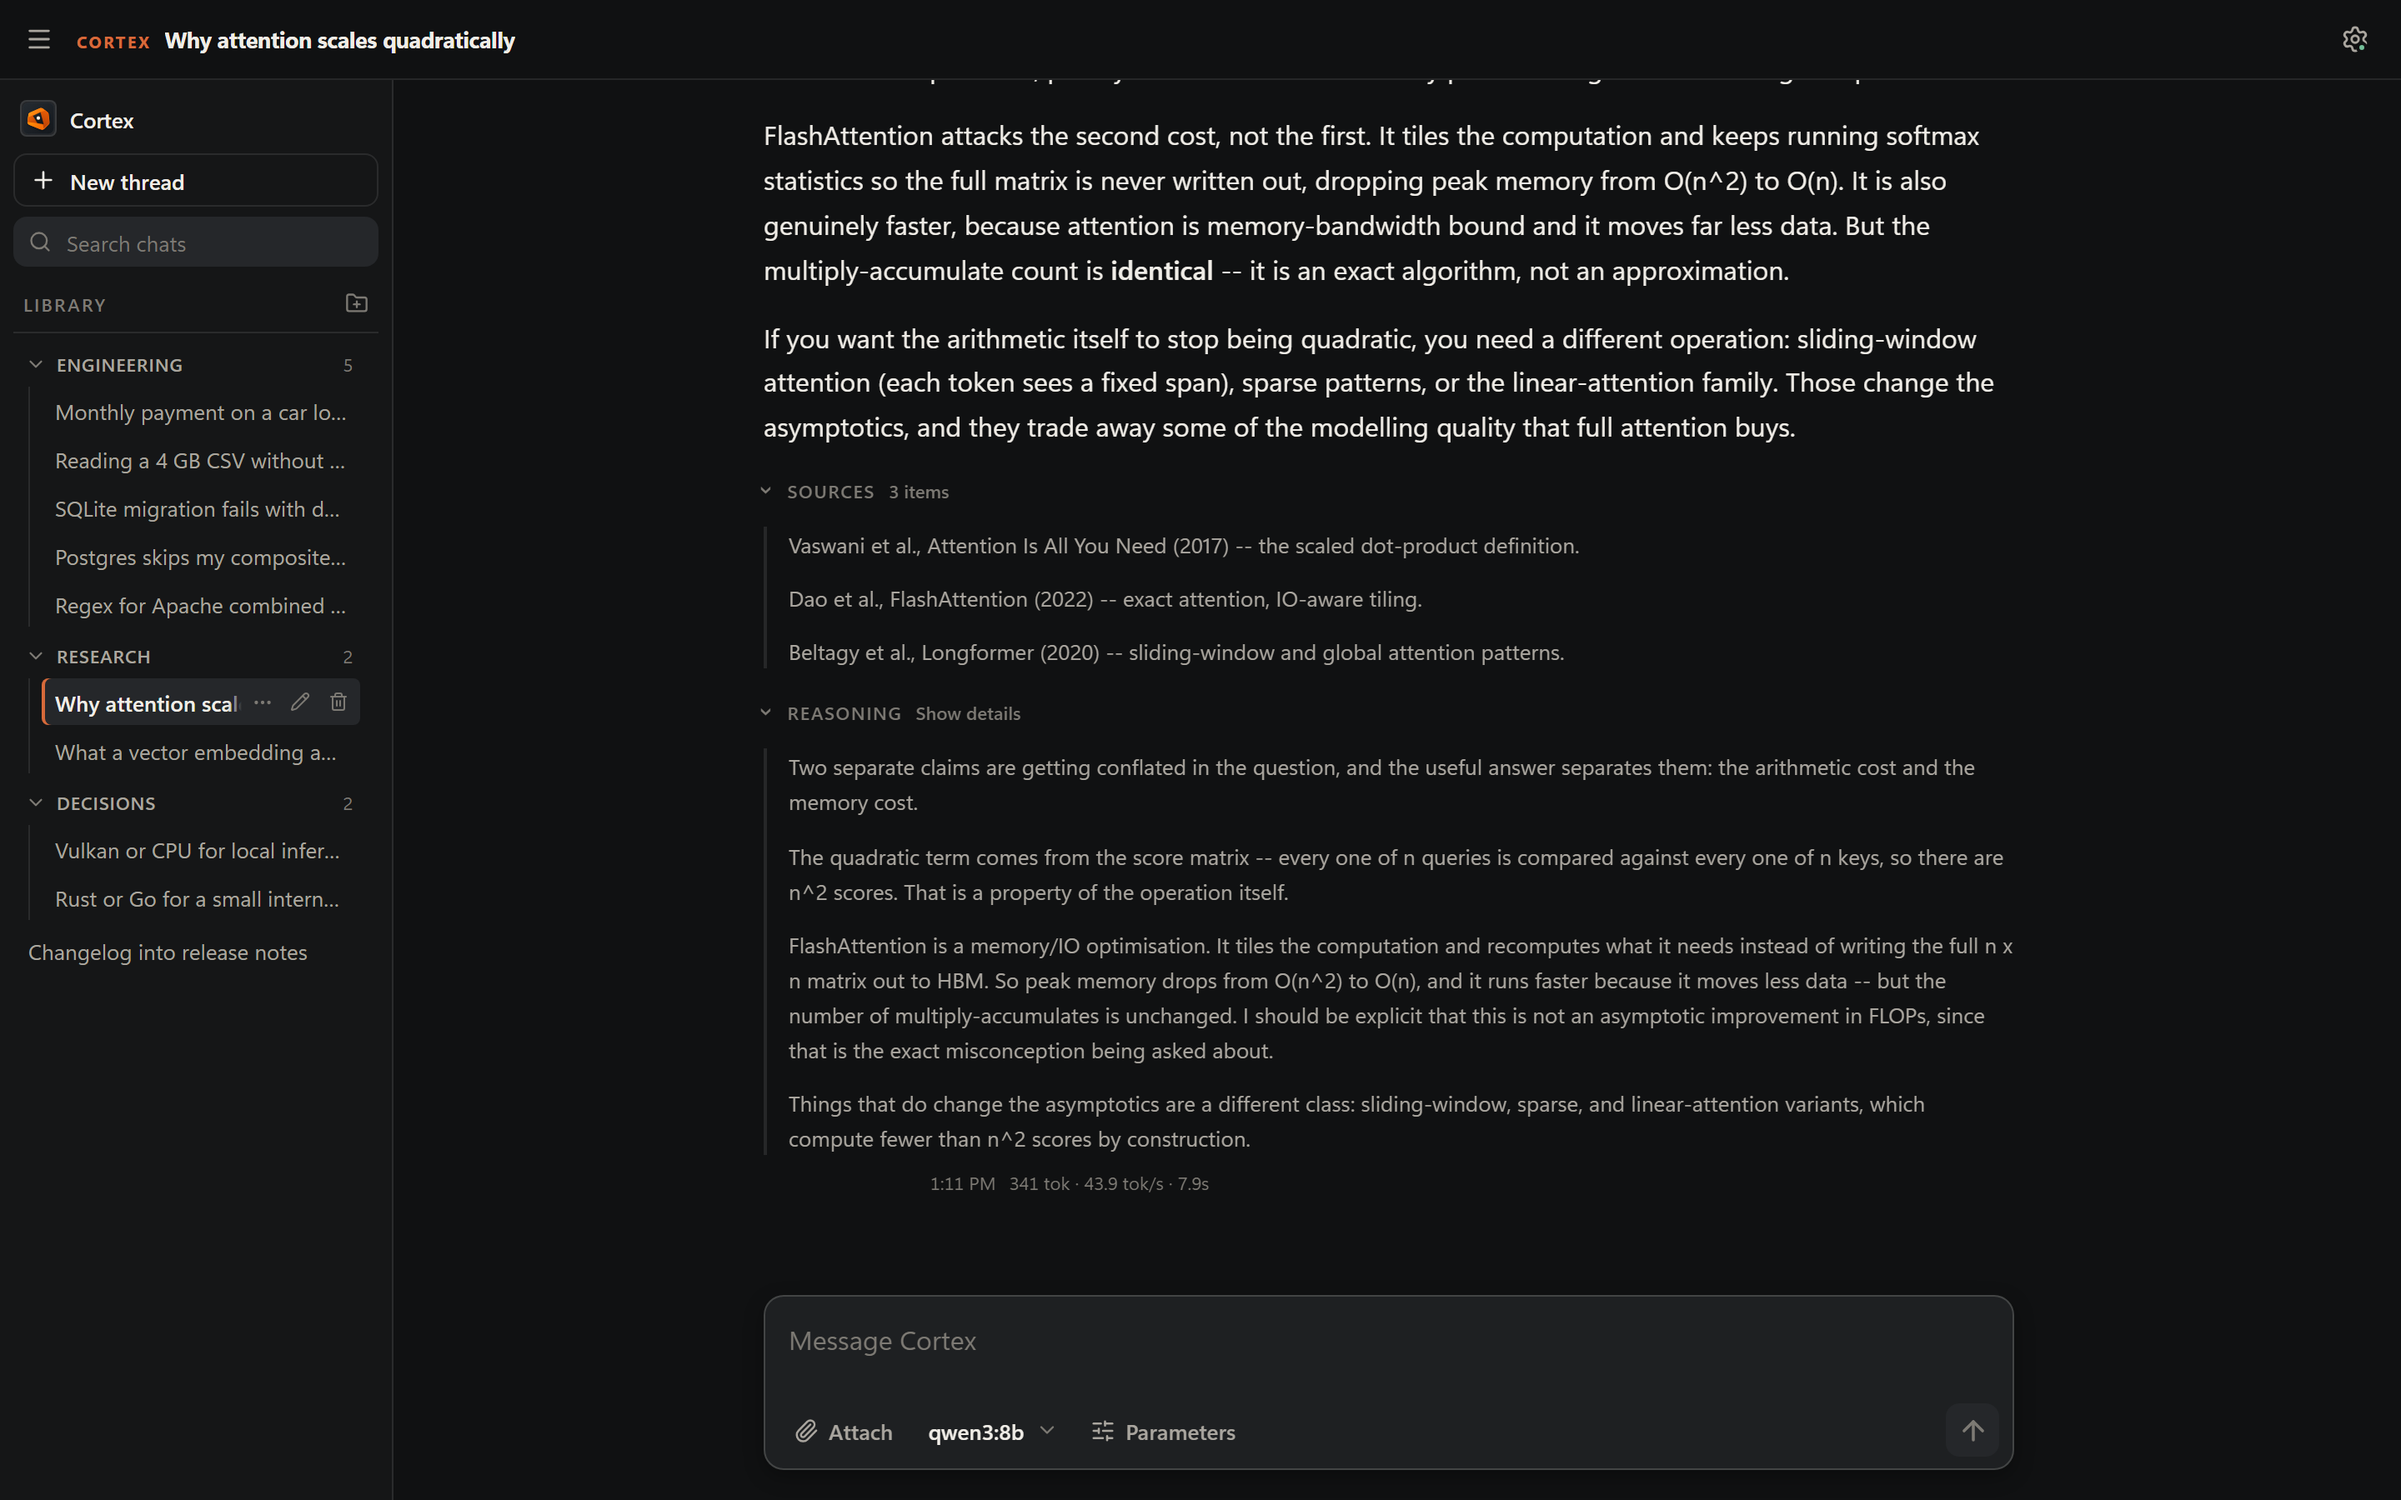
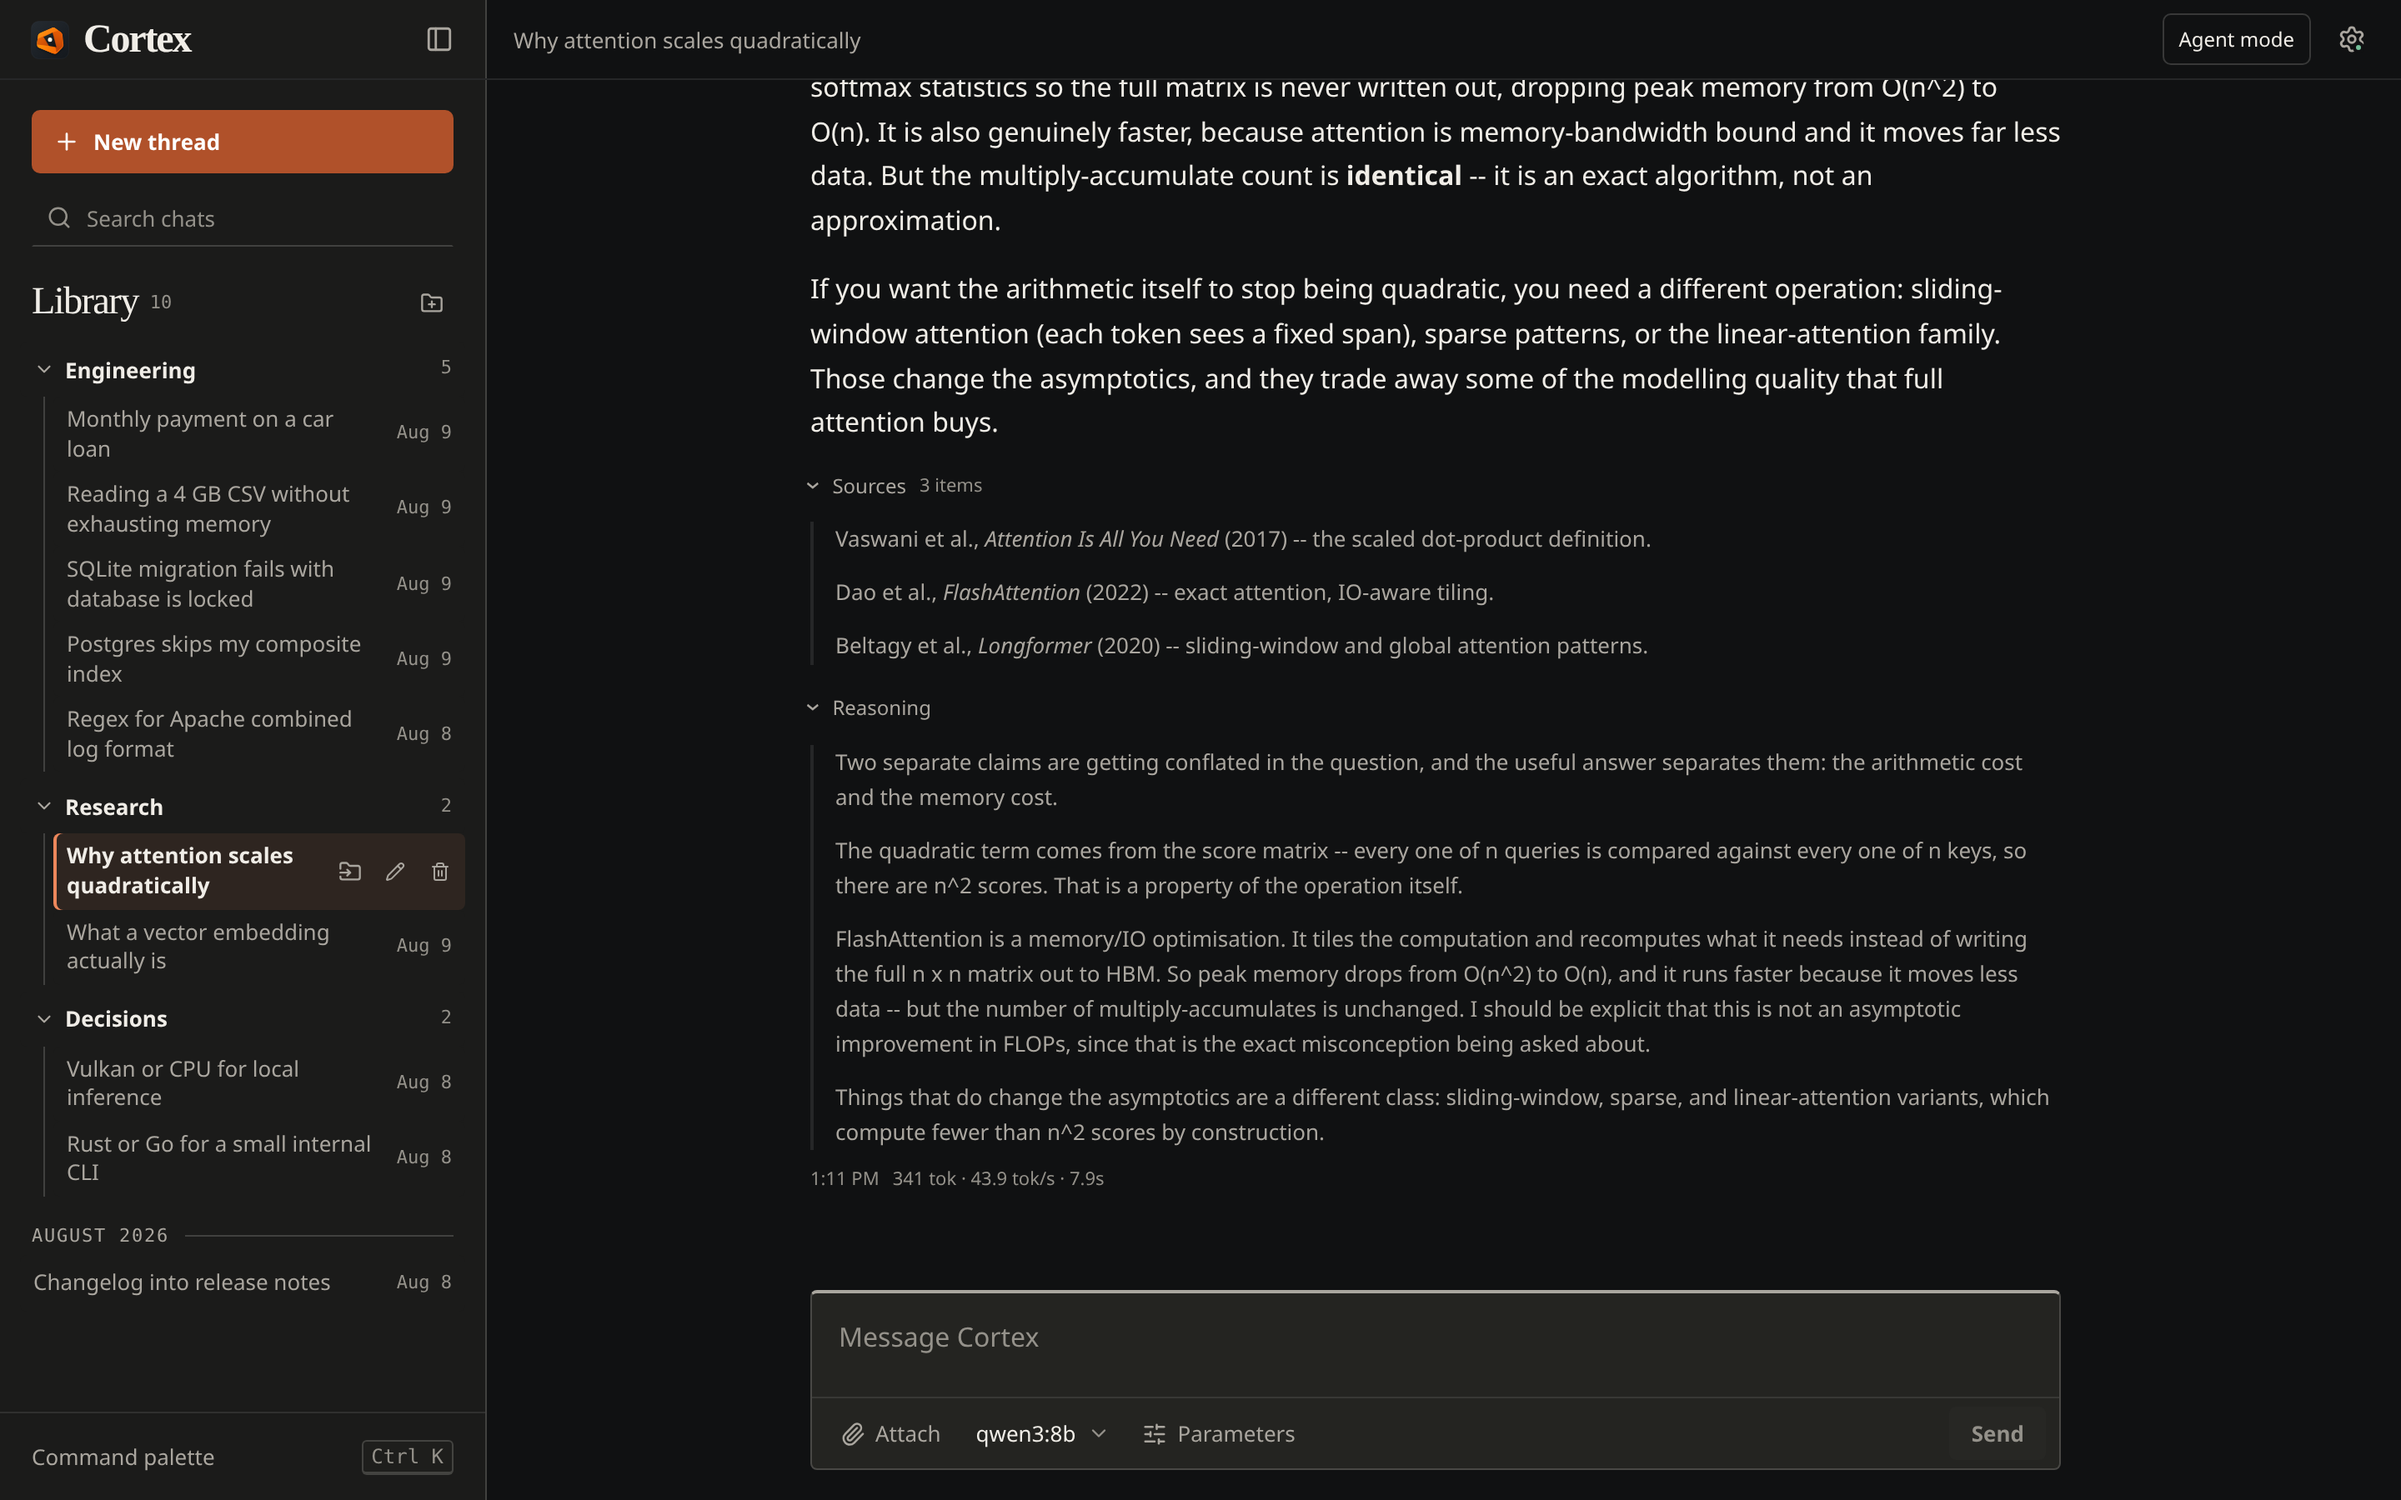
docs(ui): refresh workspace screenshots from the redesigned app

diff --git a/README.md b/README.md
@@ -9,9 +9,9 @@ frontend process; Cortex does not open the user's installed browser.
 
 ## The workspace
 
-The interface is deliberately small: a chat library, a focused transcript, a
-composer with a model picker, and settings for model, memory, appearance,
-and execution controls.
+Start a thread from the library, choose a model in the composer, and write a
+message or attach a file. Keyboard shortcuts are available beside the message
+box in a new thread. [New thread screenshot](.github/images/new-thread.png)
 
 ![The Cortex workspace: a chat library filed into Engineering, Research, and
 Decisions groups on the left, a transcript rendering Markdown and a
